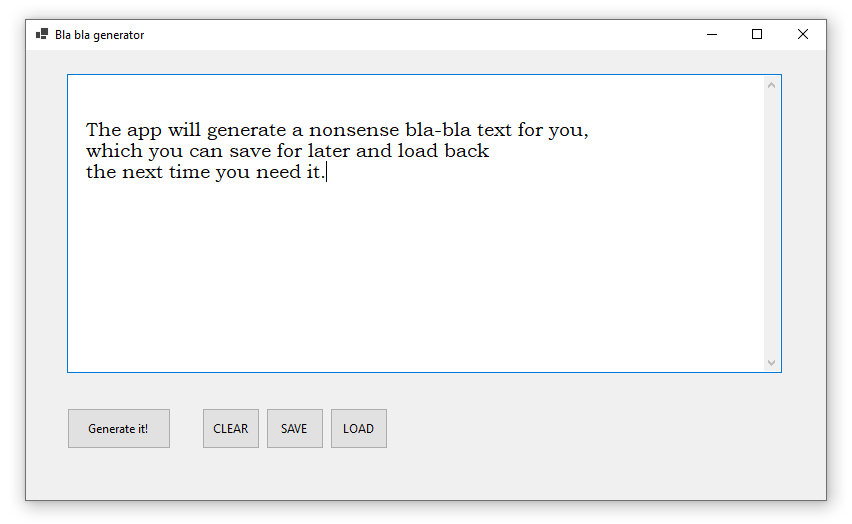
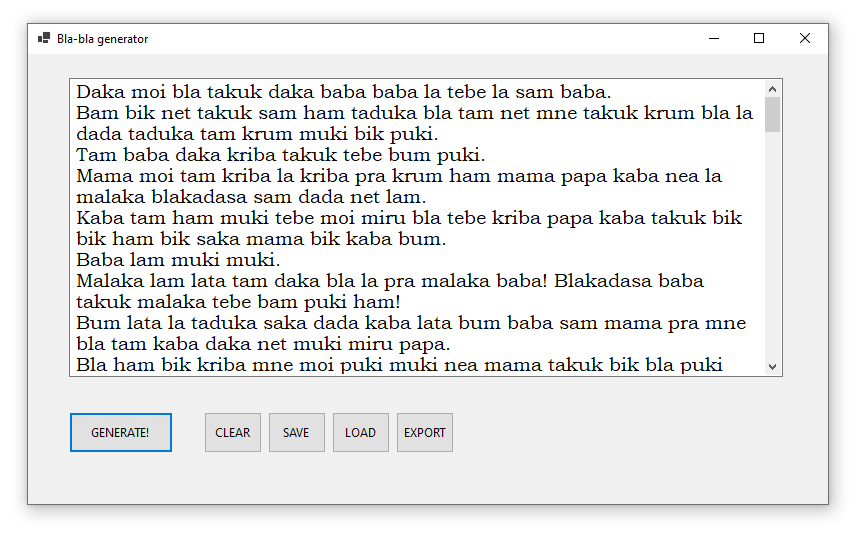
Added TXT file export function.

diff --git a/Form1.Designer.cs b/Form1.Designer.cs
@@ -33,6 +33,7 @@
             btnSave = new Button();
             btnLoad = new Button();
             btnClear = new Button();
+            btnExport = new Button();
             SuspendLayout();
             // 
             // blaBlaTextbox
@@ -51,7 +52,7 @@
             generateButton.Name = "generateButton";
             generateButton.Size = new Size(104, 41);
             generateButton.TabIndex = 1;
-            generateButton.Text = "Generate it!";
+            generateButton.Text = "GENERATE!";
             generateButton.UseVisualStyleBackColor = true;
             generateButton.Click += generateButton_Click;
             // 
@@ -85,11 +86,22 @@
             btnClear.UseVisualStyleBackColor = true;
             btnClear.Click += btnClear_Click;
             // 
+            // btnExport
+            // 
+            btnExport.Location = new Point(368, 358);
+            btnExport.Name = "btnExport";
+            btnExport.Size = new Size(58, 41);
+            btnExport.TabIndex = 2;
+            btnExport.Text = "EXPORT";
+            btnExport.UseVisualStyleBackColor = true;
+            btnExport.Click += btnExport_Click;
+            // 
             // mainForm
             // 
             AutoScaleDimensions = new SizeF(7F, 15F);
             AutoScaleMode = AutoScaleMode.Font;
             ClientSize = new Size(800, 450);
+            Controls.Add(btnExport);
             Controls.Add(btnLoad);
             Controls.Add(btnClear);
             Controls.Add(btnSave);
@@ -108,5 +120,6 @@
         private Button btnSave;
         private Button btnLoad;
         private Button btnClear;
+        private Button btnExport;
     }
 }

diff --git a/Form1.cs b/Form1.cs
@@ -77,5 +77,11 @@ namespace WinFormsAppDemo
         {
             blaBlaTextbox.Text = "";
         }
+
+        private async void btnExport_Click(object sender, EventArgs e)
+        {
+            String txt = blaBlaTextbox.Text;
+            await File.WriteAllTextAsync("bla-bla.txt", txt);
+        }
     }
 }

diff --git a/README.md b/README.md
@@ -10,4 +10,5 @@ The window consists of four elements:
 * "Generate" button - automatically clears the text window and generates new text. 
 * "Clear" button - removes all text from the text window;
 * "Save" button - saves the text from the text windows to the local database;
-* Load" button - loads text from the local database into the text window.
+* "Load" button - loads text from the local database into the text window;
+* "Export" button - exports the text to a text file "bla-bla.txt".
